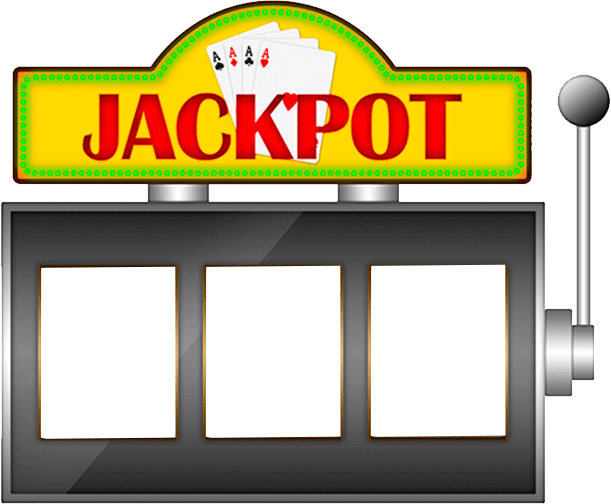
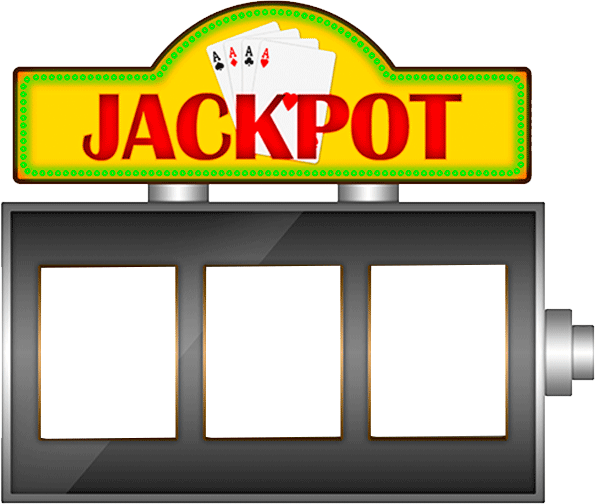
fixed all the shit

Changed region(s): [[0.9018, 0.1488, 1.0, 0.6548]]

diff --git a/script.js b/script.js
@@ -1,33 +1,103 @@
-const civs = ['Teddy Bull', 'Teddy Rough', 'Lincoln', 'Saladin Vizier', 'Saladin Sultan', 'Curtin', 'Montezuma', 'Hammurabi', 'Pedro', 'Basil', 'Theodora', 'Wilfrid', 'Qin Mandate', 'Qin Unifier', 'Kublai Chinese', 'Yongle', 'Wu Zetian', 'Poundmaker', 'Wilhelmina', 'Cleopatra Egypt', 'Cleopatra Ptolemaic', 'Ramses', 'Victoria Steam', 'Victoria Empire', 'Eleanor England', 'Lizzy', 'Menelik', 'Catherine Black', 'Catherine Magnificence', 'Eleanor French', 'Ambiorix', 'Tamar',
-    'Barbarossa', 'Ludwig', 'Simon', 'Pericles', 'Gorgo', 'Matthias', 'Pachacuti', 'Gandhi', 'Chandragupta', 'Gitarja', 'Hojo', 'Tokugawa', 'Javayaman', 'Mvemba', 'Nzinga', 'Seondeok', 'Sejong', 'Alexander', 'Mansa Musa', 'Sundiata', 'Kupe', 'Lautaro', 'Lady Six Sky', 'Genghis', 'Kublai Mongol', 'Harald Konge', 'Harald Varangian', 'Amanitore', 'Suleiman Kanuni', 'Suleiman Muhtesem', 'Cyrus', 'Nader', 'Dido', 'Jadwiga', 'Joao', 'Trajan', 'Caesar', 'Peter', 'Rob the Bruce',
-    'Tomyris', 'Phillip', 'Gilgamesh', 'Kristina', 'Ba Trieu', 'Shaka'];
+const civs = [
+    "Teddy Bull",
+    "Teddy Rough",
+    "Lincoln",
+    "Saladin Vizier",
+    "Saladin Sultan",
+    "Curtin",
+    "Montezuma",
+    "Hammurabi",
+    "Pedro",
+    "Basil",
+    "Theodora",
+    "Wilfrid",
+    "Qin Mandate",
+    "Qin Unifier",
+    "Kublai Chinese",
+    "Yongle",
+    "Wu Zetian",
+    "Poundmaker",
+    "Wilhelmina",
+    "Cleopatra Egypt",
+    "Cleopatra Ptolemaic",
+    "Ramses",
+    "Victoria Steam",
+    "Victoria Empire",
+    "Eleanor England",
+    "Lizzy",
+    "Menelik",
+    "Catherine Black",
+    "Catherine Magnificence",
+    "Eleanor French",
+    "Ambiorix",
+    "Tamar",
+    "Barbarossa",
+    "Ludwig",
+    "Simon",
+    "Pericles",
+    "Gorgo",
+    "Matthias",
+    "Pachacuti",
+    "Gandhi",
+    "Chandragupta",
+    "Gitarja",
+    "Hojo",
+    "Tokugawa",
+    "Javayaman",
+    "Mvemba",
+    "Nzinga",
+    "Seondeok",
+    "Sejong",
+    "Alexander",
+    "Mansa Musa",
+    "Sundiata",
+    "Kupe",
+    "Lautaro",
+    "Lady Six Sky",
+    "Genghis",
+    "Kublai Mongol",
+    "Harald Konge",
+    "Harald Varangian",
+    "Amanitore",
+    "Suleiman Kanuni",
+    "Suleiman Muhtesem",
+    "Cyrus",
+    "Nader",
+    "Dido",
+    "Jadwiga",
+    "Joao",
+    "Trajan",
+    "Caesar",
+    "Peter",
+    "Rob the Bruce",
+    "Tomyris",
+    "Phillip",
+    "Gilgamesh",
+    "Kristina",
+    "Ba Trieu",
+    "Shaka",
+];
+let currentCivs = civs.slice();
 
-function shuffle(array) {
-    for (let i = array.length - 1; i > 0; i--) {
-        const j = Math.floor(Math.random() * (i + 1));
-        [array[i], array[j]] = [array[j], array[i]];
-    }
-    return array;
-}
-
-function displayRandomCiv() {
-    const randomCiv = civs[Math.floor(Math.random() * civs.length)];
-    document.getElementById('result').textContent = randomCiv;
-}
-
-document.body.addEventListener('click', function (event) {
-    const screenWidth = window.innerWidth;
-    const clickX = event.clientX;
-
-    // Check if the click is in the right third of the screen
-    if (clickX > (2 / 3) * screenWidth) {
-        const seed = document.getElementById('seed').value;
-        if (seed) {
-            Math.seedrandom(seed); // Seed the random generator
-            shuffle(civs); // Shuffle the civs array
-            displayRandomCiv(); // Display a random civilization
+document.getElementById("slotarm").addEventListener("click", (event) => {
+    event.target.style.transform = "scaleY(0)";
+    setTimeout(() => {
+        let randomCiv;
+        if (currentCivs.length === 0) {
+            randomCiv = "NO CIVS LEFT";
         } else {
-            alert("Please enter a seed!");
+            randomCiv = currentCivs[Math.floor(Math.random() * civs.length)];
+            currentCivs.pop(randomCiv);
         }
-    }
+        document.getElementById("result").textContent = randomCiv;
+    }, 250);
+
+    setTimeout(() => {
+        event.target.style.transform = "scaleY(1)";
+    }, 500);
+});
+
+document.getElementById("seed").addEventListener("input", (event) => {
+    currentCivs = civs.slice();
+    Math.seedrandom(event.target.value + "\0");
 });

diff --git a/civ.html b/civ.html
@@ -1,21 +1,24 @@
 <!DOCTYPE html>
 <html lang="en">
-<head>
-    <meta charset="UTF-8">
-    <meta name="viewport" content="width=device-width, initial-scale=1.0">
-    <title>Civilization Randomizer</title>
-    <link rel="stylesheet" href="styles.css">
-</head>
-<body>
-    <div id="container">
-        <div id="input-box">
-            <input type="text" id="seed" placeholder="Enter seed">
+    <head>
+        <meta charset="UTF-8" />
+        <meta name="viewport" content="width=device-width, initial-scale=1.0" />
+        <title>Civilization Randomizer</title>
+        <link rel="stylesheet" href="styles.css" />
+    </head>
+    <body>
+        <div id="container" style="position: relative">
+            <div id="input-box">
+                <input type="text" id="seed" placeholder="Enter seed" />
+            </div>
+            <div id="slotmachine-container" style="position: relative; height: 50%">
+                <img src="slotmachine.png" />
+                <img src="slotarm.png" id="slotarm" />
+            </div>
+            <div id="result-box"><p id="result"></p></div>
         </div>
-        <img src="slotmachine.png" alt="Background Image" id="background-image">
-        <div id="result"></div>
-    </div>
 
-    <script src="https://cdnjs.cloudflare.com/ajax/libs/seedrandom/3.0.5/seedrandom.min.js"></script>
-    <script src="script.js"></script>
-</body>
+        <script src="https://cdnjs.cloudflare.com/ajax/libs/seedrandom/3.0.5/seedrandom.min.js"></script>
+        <script src="script.js"></script>
+    </body>
 </html>

diff --git a/styles.css b/styles.css
@@ -9,36 +9,49 @@ body {
     background-color: #f0f0f0;
 }
 
-#container {
+/* #container {
     position: relative;
     text-align: center;
     width: 80%;
-}
+} */
 
-img {
+/* img {
     width: 50%;
     height: auto;
     opacity: 0.7;
-}
+} */
 
 #input-box {
     position: relative;
     z-index: 2;
     margin-bottom: 20px;
     margin-top: 20px;
+    display: flex;
+    justify-content: center;
+    width: 90%;
 }
 
 #result {
-    position: absolute;
-    bottom: 30%;
-    left: 50%;
-    transform: translateX(-50%);
     font-size: 36px;
     color: white;
     background-color: rgba(0, 0, 0, 0.6);
     padding: 10px 20px;
     border-radius: 10px;
     z-index: 3;
-    max-width: 80%;
-    word-wrap: break-word;
+    text-align: center;
+}
+#slotarm {
+    position: absolute;
+    top: 14.4%;
+    right: 0;
+    transform-origin: bottom;
+    transition: transform 0.5s;
+}
+
+#result-box {
+    position: absolute;
+    display: flex;
+    justify-content: center;
+    width: 89%;
+    bottom: 15%;
 }
